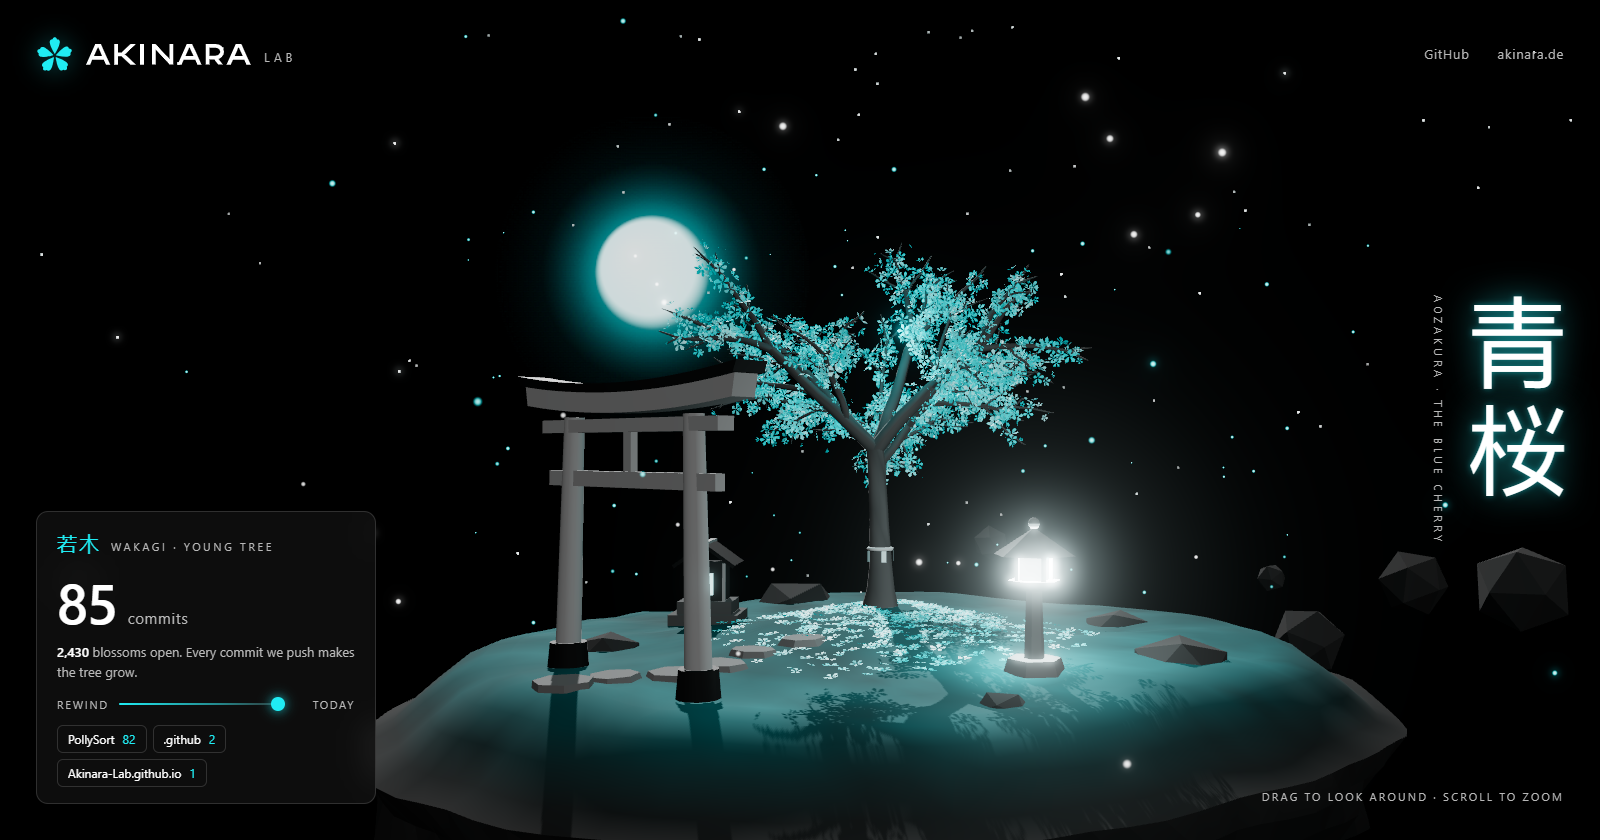
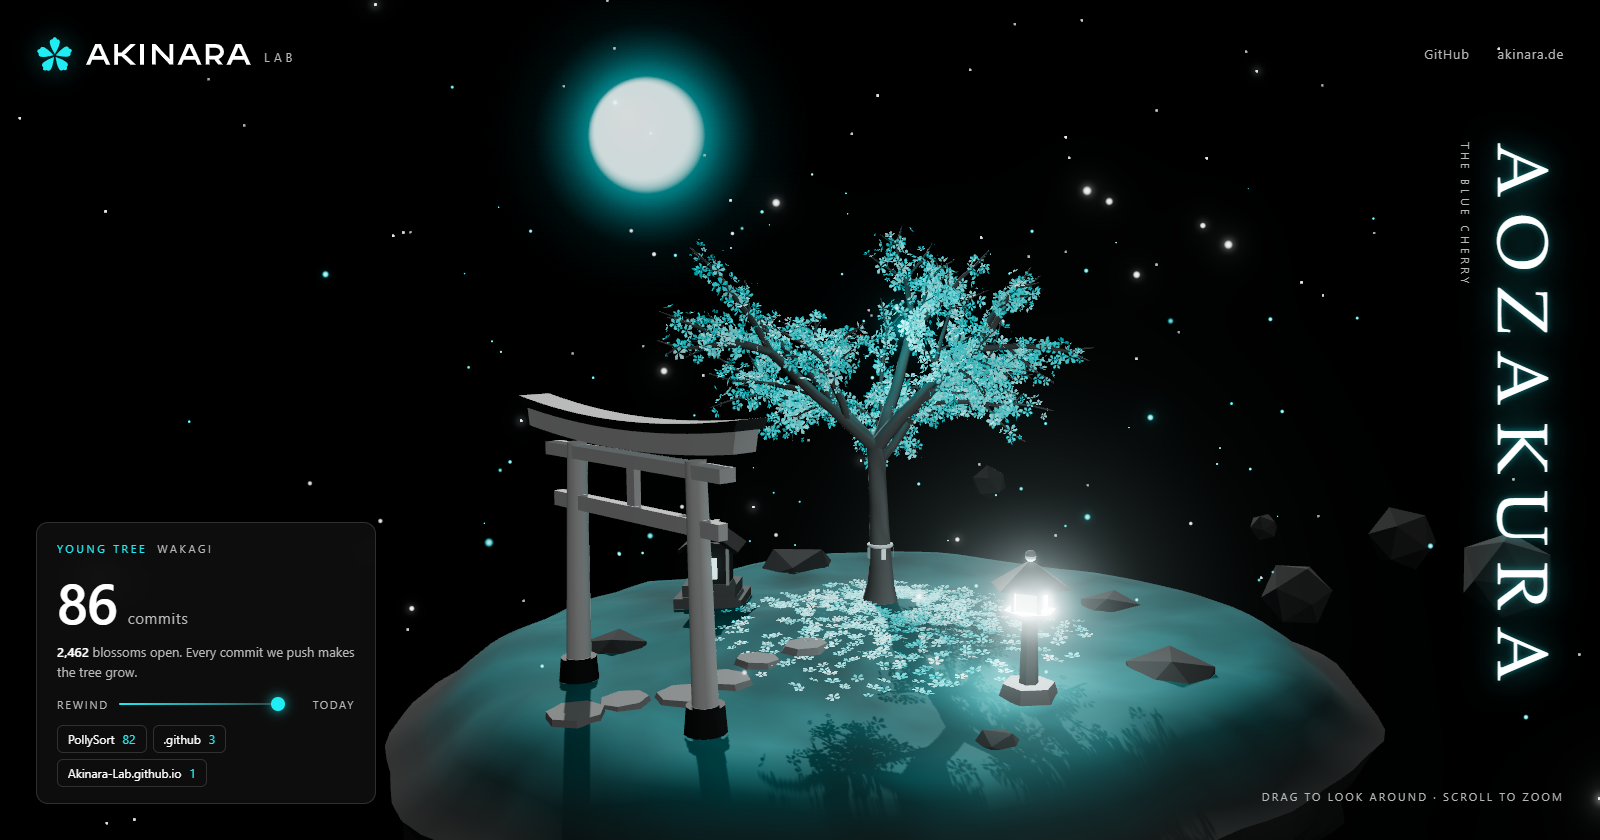
Remove Japanese characters from the profile
The caption and the preview image of the cherry tree use Latin script only.

diff --git a/profile/README.md b/profile/README.md
@@ -9,7 +9,7 @@
     <img src="assets/aozakura.png" alt="A cyan cherry tree on a floating island next to a torii gate. It grows with every commit we push." width="100%">
   </a>
   <br>
-  <sub><b>青桜</b> – our cherry tree grows with every commit. <a href="https://akinara-lab.github.io/"><b>Open the live 3D scene →</b></a></sub>
+  <sub><b>Aozakura</b> – our cherry tree grows with every commit. <a href="https://akinara-lab.github.io/"><b>Open the live 3D scene →</b></a></sub>
 </p>
 
 <p align="center">
